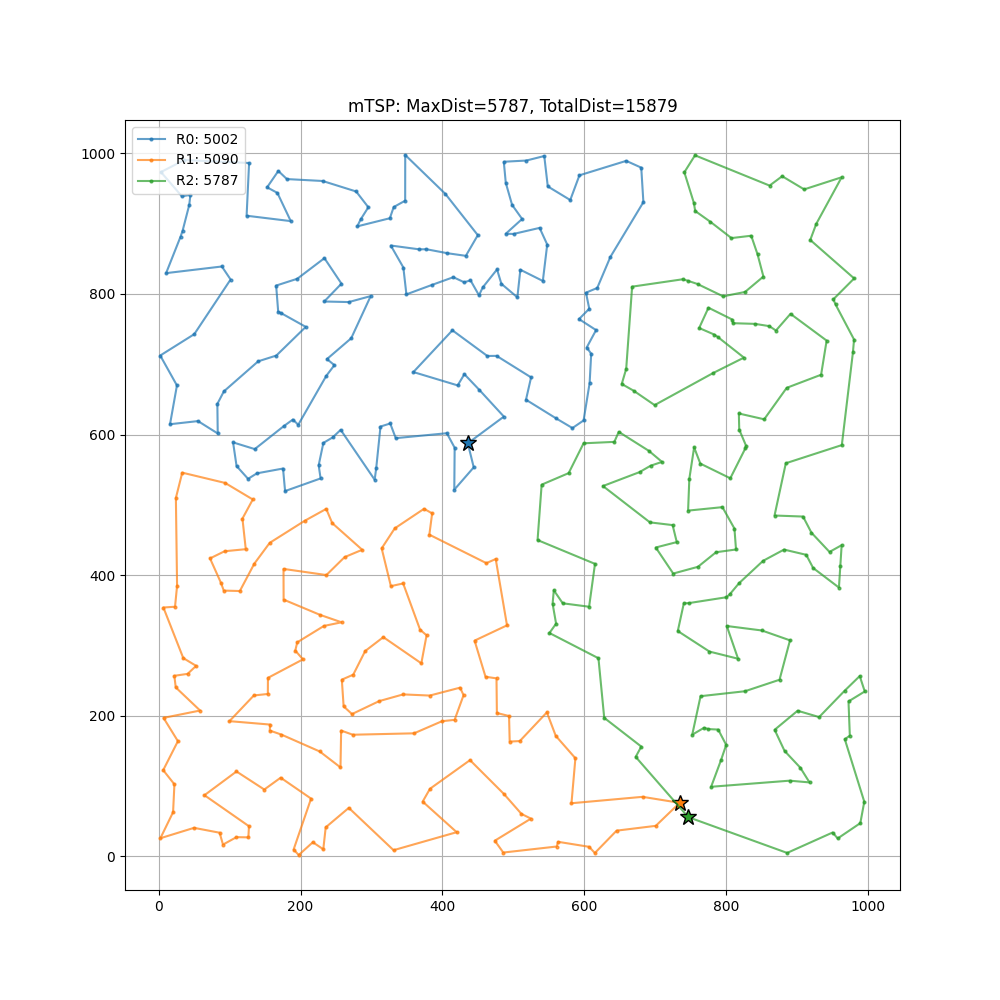
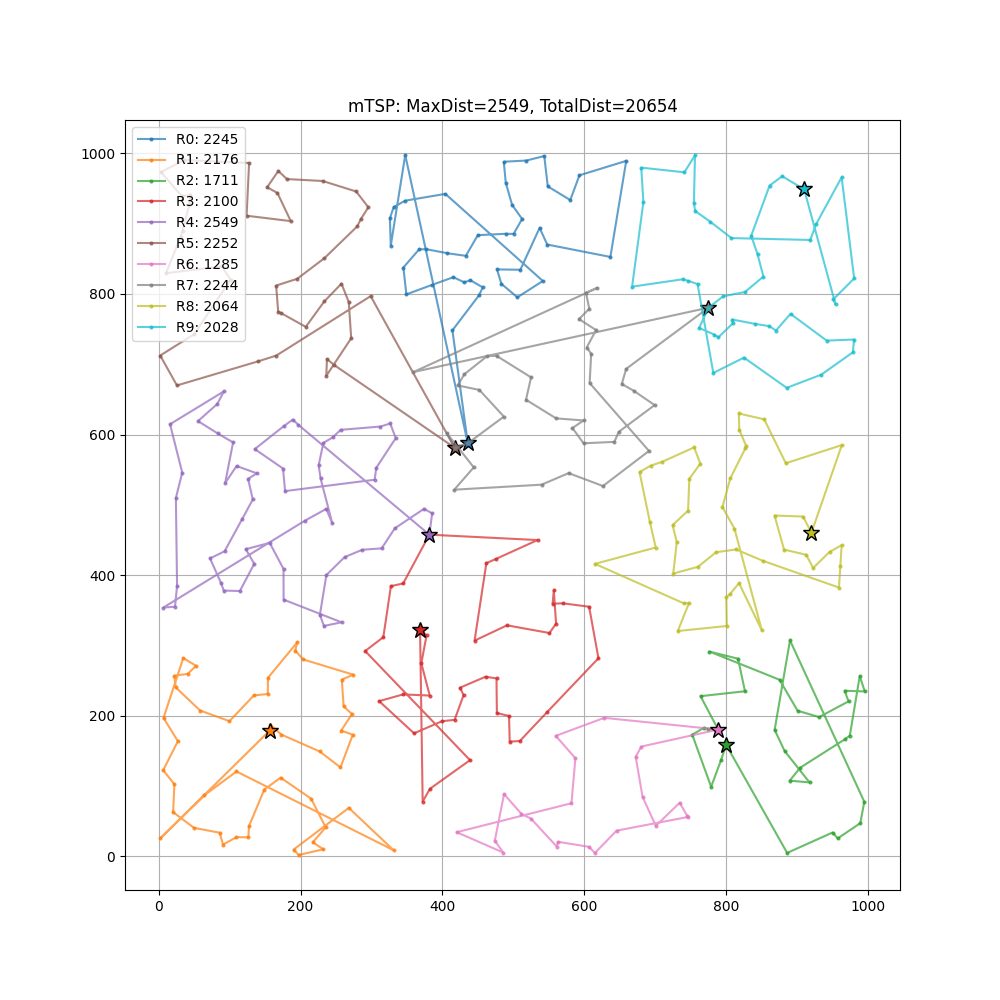
a

diff --git a/titan_cpplib/ahc/sa/sa_tsp.cpp b/titan_cpplib/ahc/sa/sa_tsp.cpp
@@ -72,7 +72,7 @@ public:
     using ScoreType = ll;
 
     struct Param {
-        double start_temp = 1e2;
+        double start_temp = 1e6;
         double end_temp = 1e0;
     };
 
@@ -159,7 +159,7 @@ public:
         for (int k = 0; k < K; ++k) {
             int start_node = START_NODES[k];
             tours[k].push_back(start_node);
-            
+
             vector<int>& cluster_cities = clusters[k];
             vector<bool> visited(cluster_cities.size(), false);
             int current_node = start_node;
@@ -257,7 +257,6 @@ public:
                 int u_prev = u_idx - 1;
                 int cand = nearest_neighbors[tr[u_prev]][sarnd.randrange(NEIBHORS)];
 
-                // ★candが別ルートにいる場合は棄却
                 if (pos_route[cand] != r1) { is_valid = false; return; }
                 int v_idx = pos_idx[cand];
                 if (v_idx == 0) { is_valid = false; return; } // 始点0を保護
@@ -357,14 +356,17 @@ public:
             int u_prev = u_idx - 1, v_next = (v_idx + 1) % sz1;
             int u_node = tours[r1][u_idx], v_node = tours[r1][v_idx];
             int w_node = tours[r2][w_idx], w_next_node = tours[r2][(w_idx + 1) % sz2];
-
+            ll block_internal = 0;
+            for (int i = u_idx; i < v_idx; ++i) {
+                block_internal += DIST[tours[r1][i]][tours[r1][i + 1]];
+            }
             ll removed1 = DIST[tours[r1][u_prev]][u_node] + DIST[v_node][tours[r1][v_next]];
             ll added1   = DIST[tours[r1][u_prev]][tours[r1][v_next]];
-            changed.diff_d1 = added1 - removed1;
+            changed.diff_d1 = added1 - removed1 - block_internal;
 
             ll removed2 = DIST[w_node][w_next_node];
             ll added2   = DIST[w_node][u_node] + DIST[v_node][w_next_node];
-            changed.diff_d2 = added2 - removed2;
+            changed.diff_d2 = added2 - removed2 + block_internal;
 
             ll old_d1 = dists[r1], old_d2 = dists[r2];
             changed.diff = ((old_d1 + changed.diff_d1) * (old_d1 + changed.diff_d1) - old_d1 * old_d1) +
@@ -393,15 +395,22 @@ public:
 
             int u1 = tours[r1][u1_idx], v1 = tours[r1][v1_idx];
             int u2 = tours[r2][u2_idx], v2 = tours[r2][v2_idx];
-
+            ll block_internal1 = 0;
+            for (int i = u1_idx; i < v1_idx; ++i) {
+                block_internal1 += DIST[tours[r1][i]][tours[r1][i + 1]];
+            }
+            ll block_internal2 = 0;
+            for (int i = u2_idx; i < v2_idx; ++i) {
+                block_internal2 += DIST[tours[r2][i]][tours[r2][i + 1]];
+            }
             ll removed1 = DIST[tours[r1][u1_prev]][u1] + DIST[v1][tours[r1][v1_next]];
             ll removed2 = DIST[tours[r2][u2_prev]][u2] + DIST[v2][tours[r2][v2_next]];
 
             ll added1 = DIST[tours[r1][u1_prev]][u2] + DIST[v2][tours[r1][v1_next]];
             ll added2 = DIST[tours[r2][u2_prev]][u1] + DIST[v1][tours[r2][v2_next]];
 
-            changed.diff_d1 = added1 - removed1;
-            changed.diff_d2 = added2 - removed2;
+            changed.diff_d1 = added1 - removed1 + (block_internal2 - block_internal1);
+            changed.diff_d2 = added2 - removed2 + (block_internal1 - block_internal2);
 
             ll old_d1 = dists[r1], old_d2 = dists[r2];
             changed.diff = ((old_d1 + changed.diff_d1) * (old_d1 + changed.diff_d1) - old_d1 * old_d1) +
@@ -527,7 +536,7 @@ void input() {
         YX[id] = {x, y};
     }
 
-    K = 3;
+    K = 10;
     START_NODES.resize(K);
     rep(k, K) {
         START_NODES[k] = N+k;

diff --git a/titan_cpplib/ahc/sa/a.py b/titan_cpplib/ahc/sa/a.py
@@ -81,7 +81,7 @@ def main():
         if not tour:
             continue
         d = calc_tour_score(coords, tour)
-        total_dist += d
+        total_dist += d * d
         max_dist = max(max_dist, d)
 
         tx = [coords[i][0] for i in tour] + [coords[tour[0]][0]]
@@ -110,8 +110,8 @@ def main():
     plt.title(f"mTSP: MaxDist={max_dist}, TotalDist={total_dist}")
     plt.legend()
     plt.grid(True)
-    plt.savefig("result.png")
-    print(f"Saved to result.png (Total: {total_dist}, Max: {max_dist})")
+    plt.savefig("result2.png")
+    print(f"Saved to result2.png (Total: {total_dist}, Max: {max_dist})")
 
 
 if __name__ == "__main__":
